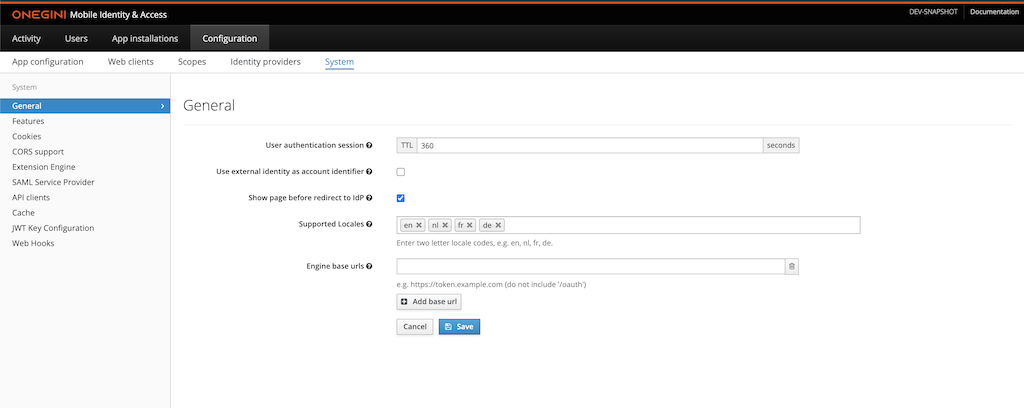
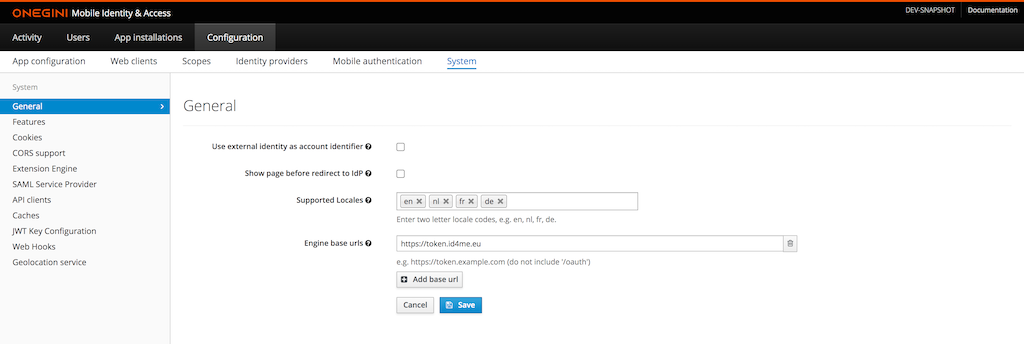
OAUTH-3628 There's no separate user authentication cache setting anymore
The cache config page has been deleted because it did not add value. The
updated admin sceen now contains tooltips with up to date descriptions.

diff --git a/docs/products/access/topics/technical-app-management/general-config/general-config.md b/docs/products/access/topics/technical-app-management/general-config/general-config.md
@@ -8,11 +8,8 @@ The picture below shows the `General` view in the Admin Console with an example 
 
 The table below describes the general properties that can be configured.
 
->**Note:** Changes to the User authentication session TTL value will only affect new entries. The TTL values of existing entries will not be updated.
-
 | Field name                                      | Default | Description                                                                                                                                                                            
 |-------------------------------------------------|---------|----------------------------------------------------------------------------------------------------------------------------------------------------------------------------------------
-| User authentication session                     | 360     | To enable some authentication features like SAML an authentication transaction is used. The time to live in seconds for the user authentication session can be set via this parameter.
 | Use external identity as account identifier     | false   | When enabled, the identity returned by the external identity provider is used as account identifier in the `sub` claim. Otherwise an account identifier is generated. Enable this when services depend on the external identifier as subject.
 | Show page before redirect to IdP                | false   | During the authentication the end user is sent from the authorization endpoint to an endpoint that is specific for that type of identity provider. The default behaviour is to use an HTTP redirect. When checked, an intermediary page will be shown instead.
 | Supported Locales                               |         | List of supported locales for which the application will attempt to load the translations. This configuration affects Access Admin and Mobile Authentication messages.

diff --git a/docs/products/access/api-reference/token-introspection.md b/docs/products/access/api-reference/token-introspection.md
@@ -16,7 +16,7 @@ This endpoint requires authentication with [valid API client credentials](../top
 | Parameter            | Required | Example value | Description
 |----------------------|----------|---------------|---------------------------------------------------------------------------------------------------------
 | token                | yes      | 24CAD1DA628B360B7EF85C30E423D0AB0FC0DCF8C7EB8CAD9640DBABE43910F9 | The value of the access token
-| refresh_user_details | no       |  true         | The properties of the `user_details` object from the [user info endpoint](../topics/general-app-config/identity-providers/identity-providers.md#configure-user-info-endpoint) are [cached](../topics/technical-app-management/cache-config/cache-config.md) after the first request. Use this parameter to force fetching the user details again from the user info endpoint. Performance may decrease when you add this parameter to every request.  
+| refresh_user_details | no       |  true         | The properties of the `user_details` object from the [user info endpoint](../topics/general-app-config/identity-providers/identity-providers.md#configure-user-info-endpoint) are cached after the first request. Use this parameter to force fetching the user details again from the user info endpoint. Performance may decrease when you add this parameter to every request.  
 
 
 The introspection response object described in [paragraph 2.2](https://tools.ietf.org/html/rfc7662#section-2.2) of the token introspection specification is extended in our implementation with a number of custom parameters:

diff --git a/docs/products/access/topics/authentication-methods/authentication-methods.md b/docs/products/access/topics/authentication-methods/authentication-methods.md
@@ -8,4 +8,4 @@ Clients, depending on their configuration and capabilities, can authenticate wit
 
 * PKCE - Used by public clients. See the [Proof Key for Code Exchange by OAuth Public Clients](https://tools.ietf.org/html/rfc7636) specification.
 
-* [PrivateKeyJWT](https://tools.ietf.org/html/rfc7523) - a method that uses Public Key Infrastructure (PKI) to prove the authenticity of a client. The client generates and presents a signed JWT (called `Client Assertion`) and lets the server verify its correctness. Depending on the client type (dynamic, static or API) Onegini Access requires the public client key to be provided by the client itself (dynamic) or lets you configure it via the admin console (static, API) in the form of JWKs URI or a PEM encoded key (x.509 certificate or public key). For more information please refer to [PrivateKeyJWT validation JWKs URI cache](../technical-app-management/cache-config/cache-config.md).
+* [PrivateKeyJWT](https://tools.ietf.org/html/rfc7523) - a method that uses Public Key Infrastructure (PKI) to prove the authenticity of a client. The client generates and presents a signed JWT (called `Client Assertion`) and lets the server verify its correctness. Depending on the client type (dynamic, static or API) Onegini Access requires the public client key to be provided by the client itself (dynamic) or lets you configure it via the admin console (static, API) in the form of JWKs URI or a PEM encoded key (x.509 certificate or public key).

diff --git a/docs/products/access/api-reference/oidc/user-info.md b/docs/products/access/api-reference/oidc/user-info.md
@@ -20,7 +20,7 @@ This endpoint accepts the following request parameter(s)
 
 | Parameter            | Required | Example value | Description
 |----------------------|----------|---------------|---------------------------------------------------------------------------------------------------------
-| refresh_user_details | no       |  true         | The values of the claims from the [user info endpoint](../../topics/general-app-config/identity-providers/identity-providers.md#configure-user-info-endpoint) are [cached](../../topics/technical-app-management/cache-config/cache-config.md) after the first request. Use this parameter to force fetching the user details again from the user info endpoint. Performance may decrease when you add this parameter to every request.  
+| refresh_user_details | no       |  true         | The values of the claims from the [user info endpoint](../../topics/general-app-config/identity-providers/identity-providers.md#configure-user-info-endpoint) are cached after the first request. Use this parameter to force fetching the user details again from the user info endpoint. Performance may decrease when you add this parameter to every request.  
 
 
 **Example request**

diff --git a/docs/products/access/topics/look-and-feel/translations/translations.md b/docs/products/access/topics/look-and-feel/translations/translations.md
@@ -23,7 +23,7 @@ If only a single locale is supported this locale is seen as the default so only 
 
 For parametrized messages use the `{n}` notation. To use for example the first provided parameter in your message: `You have {0} attempts left`.
 
-> *Note*: The translation are cached in Onegini Access engine to limit database queries. Therefore it can take some time before a change in a translation has effect. The time to live for this cache can be configured via property: [`Message cache TTL`](../../technical-app-management/cache-config/cache-config.md).
+> *Note*: The translation are cached in Onegini Access engine. Therefore, it can take some time before a change in a translation has effect. The time to live for this cache can be configured via the cache configuration in the admin console.
 
 ## Adding translations
 

diff --git a/docs/products/access/topics/general-app-config/identity-providers/identity-providers.md b/docs/products/access/topics/general-app-config/identity-providers/identity-providers.md
@@ -158,7 +158,7 @@ The reference implementation of this API is provided by CIM. Refer to CIM docume
 * Username: username that shall be used when accessing API
 * Password: password that shall be used when accessing API
 
-The calls to the API are cached. The TTL of this cache can be configured as described in [Cache Configuration](../../technical-app-management/cache-config/cache-config.md)
+The calls to the API are cached. The TTL of this cache can be configured via the admin console.
 
 ## Attribute mapping
 

diff --git a/docs/products/access/topics/technical-app-management/index.md b/docs/products/access/topics/technical-app-management/index.md
@@ -8,4 +8,3 @@ The technical application management topic guides are focused on the technical s
 * [CORS configuration](cors-support/cors-support.md)
 * [SAML Service Provider configuration](idp-saml-sp-config/idp-saml-sp-config.md)
 * [Onegini Extension Engine](extension-engine/extension-engine-properties.md)
-* [Cache configuration](cache-config/cache-config.md)
